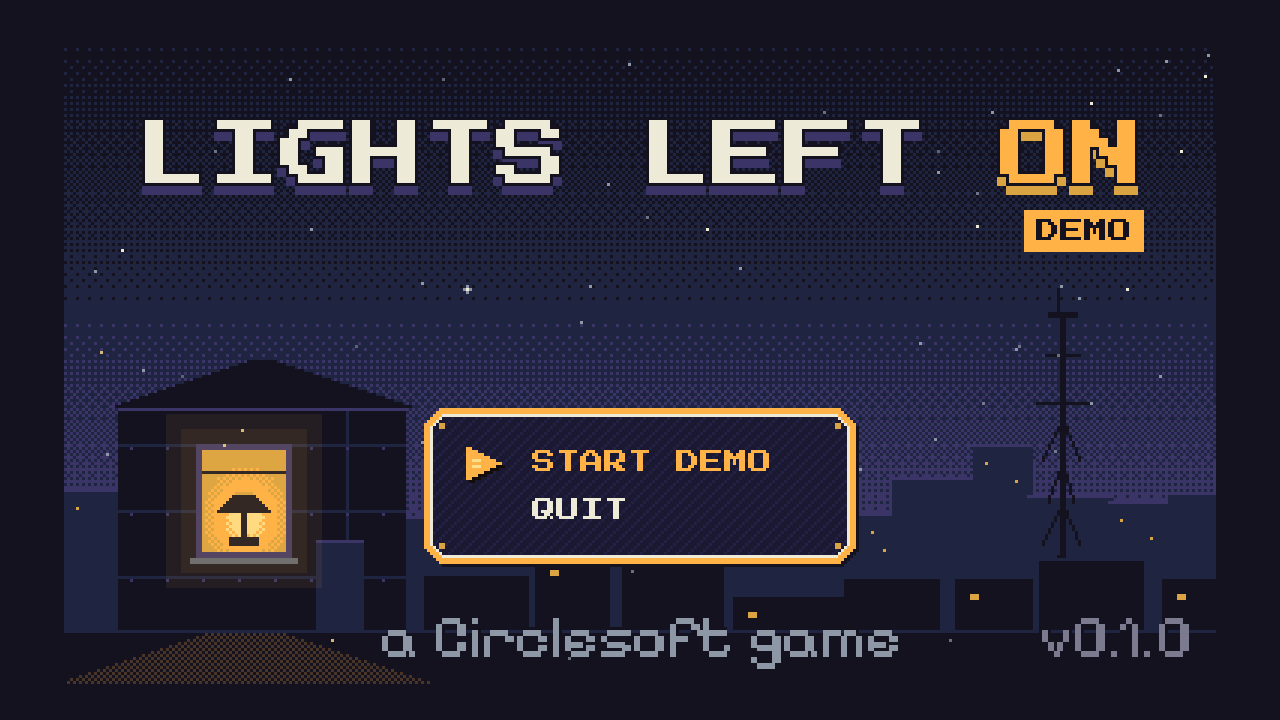
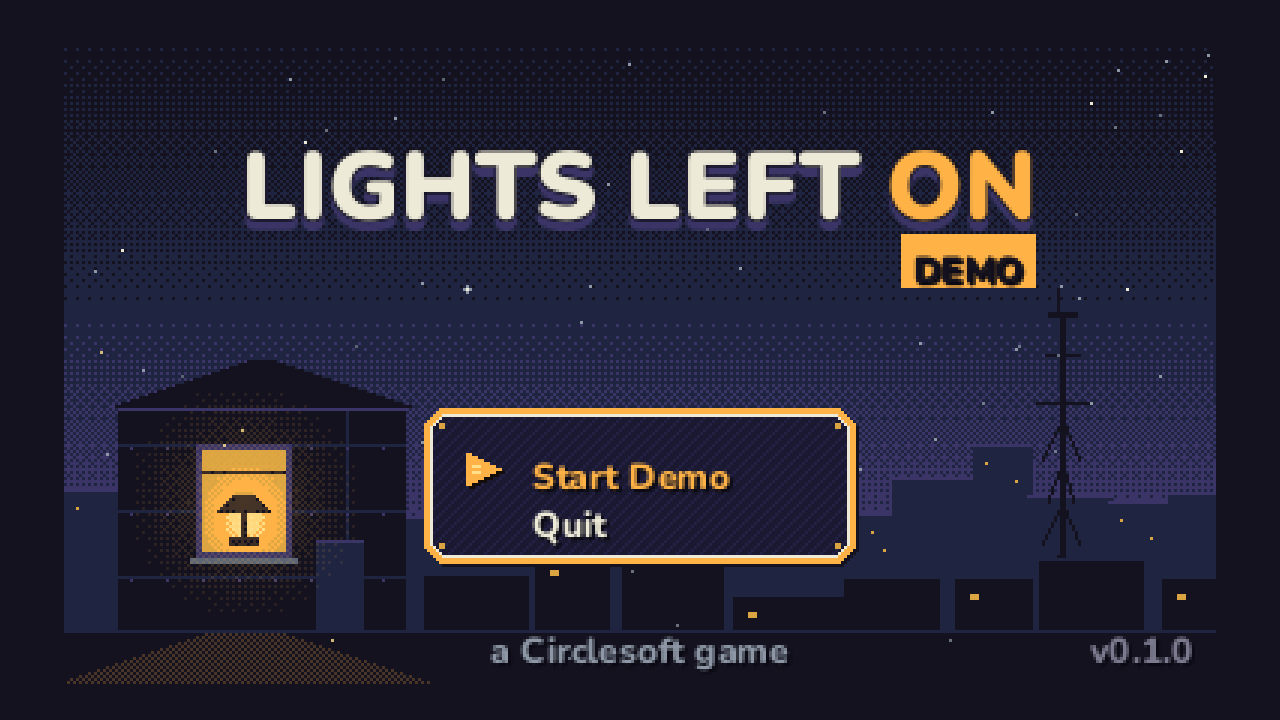
Log Ross's pick: Red is a shiba inu (E style/head/sword + C body, short pointy ears).
Claude-Session: https://claude.ai/code/session_012jSmZ4BPCmd8jMXHsVXFG6

diff --git a/docs/decisions.md b/docs/decisions.md
@@ -5,6 +5,7 @@
 
 | Date | Decision | Options considered | Why |
 |---|---|---|---|
+| 2026-10-06 | **Red's art style chosen: a mix.** E's style (Rubber Bounce: springy mascot surface and treatment), **E's head, C's body** (Picture-Book), **E's sword**; **ears shorter and pointy like a shiba inu**. **Red is now a shiba inu** (was a scrappy mutt pup): tawny-red coat with cream cheeks, muzzle and chest, a curled tail, both ears upright and pointy (the one-up/one-floppy ear trait is retired; ears still perk and flatten to emote). The combined Red gets built and shown to Ross before animation; then the style guide's character section and the cast follow this look. | A Wind-Up Toy · B Button Pup · C Picture-Book · D Ink Line · E Rubber Bounce (studio recommended A + B's head) | Ross: "the style of E, the head of E, the body of C, the sword of E, make the ears shorter and pointy like a shiba inu - make her a shiba inu" |
 | 2026-10-06 | **UI font direction: move away from the NES-style font** (Press Start 2P) toward a rounded, chunky sans like the FF9 menu screenshot Ross shared: still a little pixelated and gamey, with a drop shadow. Originality: FF9's own font isn't used; the studio auditions open-license (SIL OFL) rounded fonts rendered at our low resolution with a 1-px drop shadow, applies the closest, and shows Ross a comparison sheet. | (Direct instruction from Ross) | "can we please move away from the early nes style font and begin to employ a font that more closely resembles the font shown in the screenshot? I still want it to look a little pixelated and gamey, I like the drop shadow as well" |
 | 2026-10-06 | **UI studio calls (bubbles/menu):** dialogue text 13 px Pixelify Sans; narrator and signs use a plain box at the bottom; Red's gesture bubbles hold ~1.2 s then advance; choices sit inside the asker's bubble with Red's gesture icon; colored name tags on bubbles; typing speeds slow 18 / normal 36 / fast 80 chars/s; bubbles up to ~312 px wide; field menu Items / Status / Config / Save / Close (items and save are stubs for now). | Studio's calls | Ross can overturn any. |
 | 2026-10-06 | **Run & jump built; button map (studio calls under Level 1):** Run = hold Shift / X (west); Jump = Space / A (south); Talk/interact in the field = E, Z / B (east); Menus confirm = Enter, Z, E / A; cancel = X, Esc / B; Start/back to title = Enter, Esc / Start. Enter doesn't talk in the field (it would exit to title); Space no longer confirms menus (it's jump). Walk 3.0, run 5.2 units/s; jump 1.2 units, coyote time and buffer 0.1 s, variable height, no double jump; camera holds steady during jumps. | Studio's calls | Ross can overturn any. |

diff --git a/docs/studio_log.md b/docs/studio_log.md
@@ -4,6 +4,7 @@
 
 ## 2026-10-06
 
+- **Ross picked Red's look:** E's style, head and sword + C's body, short pointy shiba ears; **Red is now a shiba inu**. Technical Artist building the combined Red for Ross's confirmation; Creative Director updating the story bible.
 - **Red style prototypes A–E done** (two Technical Artists): A Wind-Up Toy, B Button Pup, C Picture-Book, D Ink Line (new cel shader + 1-px outline), E Rubber Bounce. Turnarounds, in-game-scale and silhouette shots plus a contact sheet in docs/screenshots/red_prototypes/. Sent to Ross for his pick. **Speech bubbles + field menu done** (369 tests). UI Programmer now switching to a rounded drop-shadow font per Ross; Gameplay Programmer wiring NPCs and interactables.
 - **Speech bubbles, voiced typing hook, dialogue runner and field menu built** (UI Programmer): FF9-inspired chalk comic bubbles over the speaker's head (tail follows them, flips below near the top of the screen, stays on screen), text types letter by letter at the Config speed with a blinking next arrow, Red answers with 9 gesture pop-ups (placeholder pixel icons), yes/no choices live inside the bubble with Red's thumbs-up / head-shake icons, narrator and signs use a plain bottom box. The runner plays data/dialogue/*.json (flags, items, branches), calls the voice hook per letter and freezes Red. Field menu (Tab / C / Y): Items, Status, Config (text speed, voice volume, Auto-Timing, with a live typing preview), Save stub, Close; controller, keyboard and mouse. GameState (bag, flags, party) and Config settings now exist. Screenshots: docs/screenshots/m1_speech_bubble.png, m1_field_menu.png (plus choice, text box, gestures, menu pages). **369 tests pass.** Dialogue text uses Pixelify Sans at 13 px (12 looked thin and uneven; Ross can overturn). Next: Gameplay Programmer wires NPCs and interaction to the runner and menu in the test room.
 - **Gibberish voices built** (Audio Designer; 230 tests passing): 7 synthesized voices (Otis low hum, Mox high chirp, creaky old Zero, honking Kasp, prim bell-like Vela, smooth Ruo, plain townsfolk), deterministic letter-to-syllable "language", ? rises and ! punches, Red silent; placeholder UI and gesture SFX. Preview recordings for Ross being rendered.
